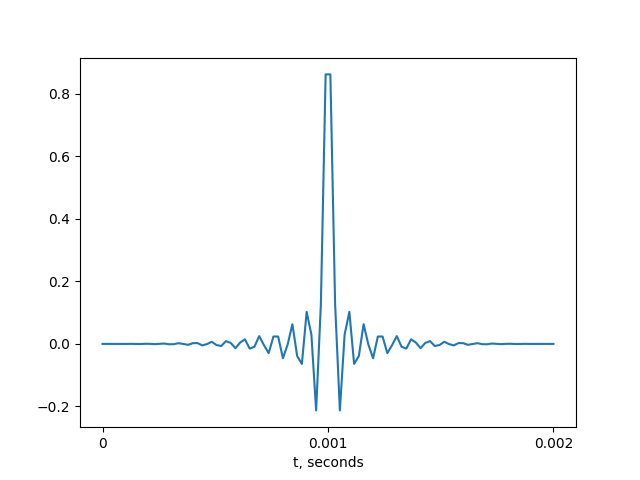
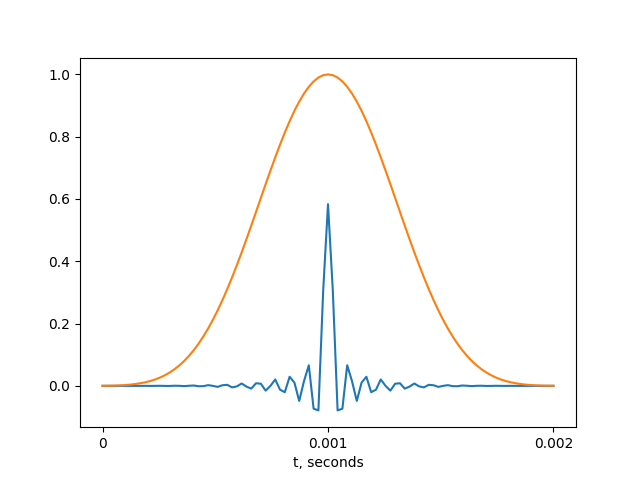
filter design

diff --git a/python/fir_design.py b/python/fir_design.py
@@ -9,25 +9,67 @@ TARGET_SAMPLE_RATE = 32000
 CUTOFF_FREQUENCY = 14000
 
 delay_sec = 0.001
-window_size = int(SAMPLE_RATE * delay_sec * 2)
-x = np.linspace(-delay_sec, delay_sec, window_size) * CUTOFF_FREQUENCY * 2 * np.pi
-fir_impulse_response = np.sin(x)/(x) * np.blackman(window_size)
+N = int(SAMPLE_RATE * delay_sec * 2)
+if N%2==0: N-=1
+M = N - 1
+n = np.arange(N)
+
+wc = (CUTOFF_FREQUENCY / SAMPLE_RATE) * np.pi * 2
+x = (n - M//2) * wc
+
+sinc = np.where(x == 0, 1.0, np.sin(x) / x)
+
+wx2 = 2 * np.pi * n / M
+wx4 = wx2 * 2
+wx6 = wx2 * 3
+
+#Blackman-Harris window:
+a0 = 0.4243801
+a1 = 0.4973406
+a2 = 0.0782793
+
+blackman_harris = a0 - a1 * np.cos(wx2) + a2 * np.cos(wx4)
+bh_impulse = sinc * blackman_harris
+bh_impulse /= np.sum(bh_impulse)
+
+#Blackman-Nuttall window:
+a0 = 0.3635819
+a1 = 0.4891775
+a2 = 0.1365995
+a3 = 0.0106411
+
+blackman_nuttall = a0 - a1 * np.cos(wx2) + a2 * np.cos(wx4) - a3 * np.cos(wx6)
+bt_impulse = sinc * blackman_nuttall
+bt_impulse /= np.sum(bt_impulse)
 
 plt.xticks([0, 0.5, 1], [0, delay_sec, delay_sec * 2])
 plt.xlabel('t, seconds')
-plt.plot(np.linspace(0, 1, window_size), fir_impulse_response)
+
+impulse_x = np.linspace(0, 1, N)
+plt.plot(impulse_x, bt_impulse)
+plt.plot(impulse_x, blackman_nuttall)
 plt.savefig(current_dir + 'sinc.png')
 plt.clf()
 
-print('windows size:', window_size)
+print('windows size:', N)
 
 import scipy
 
-w, h = scipy.signal.freqz(fir_impulse_response, 1, fs = SAMPLE_RATE)
+#plot Blackman-Harris
+w, h = scipy.signal.freqz(bh_impulse, 1, fs = SAMPLE_RATE)
+plt.plot(w, 20 * np.log10(abs(h)), label = 'Blackman-Harris')
 
-plt.plot(w, 20 * np.log10(abs(h)))
+#plot Blackman-Nuttall
+w, h = scipy.signal.freqz(bt_impulse, 1, fs = SAMPLE_RATE)
+plt.plot(w, 20 * np.log10(abs(h)), label = 'Blackman-Nuttall')
+
 #plt.xscale('log')
 plt.grid(visible=True)
+plt.legend()
 plt.xticks([5000, 10000, CUTOFF_FREQUENCY, TARGET_SAMPLE_RATE/2, SAMPLE_RATE/2 ], rotation = 45)
-plt.savefig(current_dir + 'reponse.png')
+plt.savefig(current_dir + 'magnitude.png')
 plt.clf()
+
+#plot frequency response
+plt.plot(w, np.unwrap(np.angle(h)), label = 'Blackman-Nuttall')
+plt.savefig(current_dir + 'phase.png')
